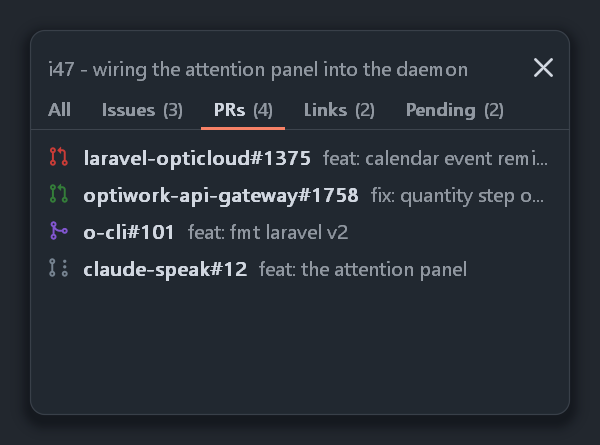
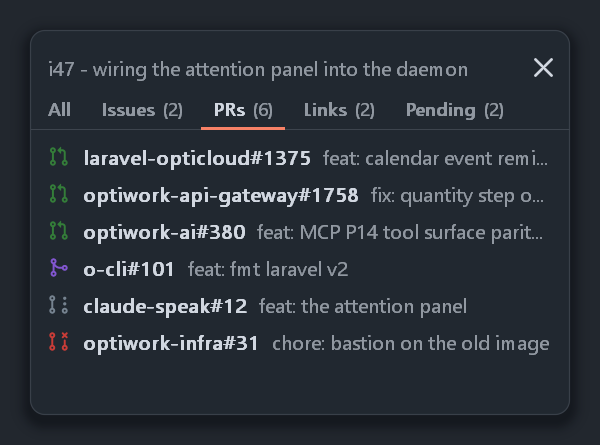
docs(panel): GitHub state colours, the Changes requested badge and label style
Icon table and popover prose describe state-only colours, the badge row
and review_decision; label pills documented as Primer's dark IssueLabel.
Changelog entries, the new checks-failing popover preview, and refreshed
preview PNGs.

diff --git a/docs/references/attention-panel.md b/docs/references/attention-panel.md
@@ -159,20 +159,23 @@ the one you are already looking at.
 
 Questions outrank every status in the collapsed pill: while any is open the pill
 reads `N pending` with the amber `question` glyph rather than `N items` and the
-worst badge. A red pill means a machine is unhappy about something; an amber one
-means a machine is waiting for *you*, and only the second will not resolve
-itself.
+worst item's icon. The amber is the one colour on the card that means a machine
+is waiting for *you* — every other icon reports a GitHub state, which will
+resolve itself.
 
 ## Icons and colours
 
 Each row is marked with **GitHub's own icon for its type**, tinted with GitHub's
 own colour for its state — two pieces of information in the space a status dot
-took, and the same glyph the row's page shows:
+took, and the same glyph, in the same colour, the row's page shows. The colour is
+the *state* only (open, draft, merged, closed), never the review or the checks:
+`approved`, `changes_requested` and `checks_failing` are all an open item, and
+all green. They stay in the data; the popover is where they are shown.
 
 | Row | Icon | Colour |
 |---|---|---|
-| issue, any live state | `issue-opened` | green `#347d39`, amber `#c69026` for `changes_requested`, red `#c93c37` for `checks_failing` |
-| pull request, any live state | `git-pull-request` | as above; `approved` stays plain green |
+| issue, any live state | `issue-opened` | green `#347d39` |
+| pull request, any live state (`open`, `approved`, `changes_requested`, `checks_failing`) | `git-pull-request` | green `#347d39` |
 | `draft` | `git-pull-request-draft` | grey `#768390` |
 | `merged` | `git-merge` | purple `#8256d0` |
 | closed issue | `issue-closed` | purple `#8256d0` — GitHub's "completed" |
@@ -183,9 +186,10 @@ took, and the same glyph the row's page shows:
 | a path, or any other numberless item | `file-directory` | grey `#768390` |
 | any other `kind`, with a number | `issue-opened` | by state, as above |
 
-`approved` is left plain green rather than given a tick overlay: at 14 px a
-second mark inside the glyph turns into grit, and a row's job is "which thing,
-roughly how is it doing" — the exact review state is one click away.
+This is GitHub's own split: its lists and hover cards colour a pull request by
+state, and a failing check or a requested change is a separate mark next to it.
+At 14 px there is no room for that second mark inside the glyph, so a row's job is
+"which thing, and is it still open" — the review state is one hover away.
 
 The icons are the 16×16 [Octicons](https://github.com/primer/octicons) (MIT),
 verbatim path data, rasterized in the binary: the path is parsed, its curves and
@@ -221,7 +225,7 @@ opens to the left of the first, aligned with the row that summoned it. Path rows
 have no popover — a directory has nothing else to say.
 
 <p align="center">
-  <img src="../panel-popover-pr.png" width="440" alt="a pull request popover: repo#N, Changes requested, the full title, author, labels, assignees, reviewers with verdicts and a checks line">
+  <img src="../panel-popover-pr.png" width="440" alt="a pull request popover: the repo and date, the full title with #N, a green Open pill with a yellow Changes requested badge, labels, assignees, reviewers with verdicts and a checks line">
   <img src="../panel-popover-issue.png" width="440" alt="an issue popover: repo#N, its state, the full title, author, labels and assignees">
   <img src="../panel-popover-question.png" width="440" alt="a question popover: the amber question mark, Pending question, the whole question text, and click to copy">
   <img src="../panel-popover-link.png" width="440" alt="a link popover: the chain icon, the word Link, and the whole URL over two lines">
@@ -232,11 +236,18 @@ GitHub's own order: a muted `owner/repo on Sep 16`; the **full title** in bold,
 wrapped to at most three lines, with a muted `#N` at the end of its last line —
 which is why the wrap is done by hand rather than by `DT_WORDBREAK`, since a
 single mask cannot say where its last line ends; the status as a *filled pill*
-carrying the type's octicon (green `Open`, purple `Merged`, red `Closed`, grey
-`Draft`); then, under a separator, the opening of the body, and for a pull
+carrying the type's octicon, in the icon's colour and with GitHub's word for the
+state (green `Open` for any live pull request or issue, grey `Draft`, purple
+`Merged`, red `Closed` for a pull request and purple `Closed` for an issue);
+beside it on the same row, the badges that qualify it — today only a yellow
+`Changes requested` (`#e3b341`, GitHub's dark attention colour, as tinted text
+on an 18% fill with a hairline border) on an open pull request whose status is
+`changes_requested` *or* whose `details.review_decision` is `CHANGES_REQUESTED`,
+since a PR with failing checks reports `checks_failing` and would otherwise
+hide its review; then, under a separator, the opening of the body, and for a pull
 request the `base ← head` pair as two pills. Under a second separator, the part
 that is about people rather than about the thing: the labels as pills in
-GitHub's own label colours; `Assignees`; for pull requests `Reviewers`, each
+GitHub's own dark-theme label style; `Assignees`; for pull requests `Reviewers`, each
 with the verdict beside them — a green check for `APPROVED`, a red `✕` for `CHANGES_REQUESTED`, a grey
 speech bubble for `COMMENTED`, a hollow circle for a review that has been
 requested and not yet given; and a one-line `Checks: 4 passing · 1 pending ·
@@ -325,7 +336,8 @@ has.
   "reviews":   [{"login": "…", "avatar": "…", "state": "APPROVED|CHANGES_REQUESTED|COMMENTED|PENDING",
                  "display": "Copilot", "icon": "copilot"}],
   "review_requests": [{"login": "…", "avatar": "…"}],
-  "checks":    {"total": 6, "failing": 1, "pending": 1}
+  "checks":    {"total": 6, "failing": 1, "pending": 1},
+  "review_decision": "CHANGES_REQUESTED"
 }
 ```
 
@@ -350,10 +362,14 @@ column). The panel does not pattern-match logins; the producer says what to show
 `reviews` is the latest review per reviewer; `review_requests` are the ones who
 have not reviewed yet, and they are merged into the `Reviewers` list as
 `PENDING` (a login in both keeps its review). `labels[].color` is GitHub's own
-six-digit hex, with or without a `#`, and the pill's text is picked black or
-white by the colour's luminance — a pill is unreadable the moment that guesses
-wrong. `checks.total` counts everything, so *passing* is
-`total - failing - pending`.
+six-digit hex, with or without a `#`, and a label is drawn the way GitHub's dark
+theme draws one (Primer's `IssueLabel`): the raw colour at 18% as the fill; the
+text the same hue, lightened in HSL by `0.6 - L` when the colour's perceived
+lightness `L = 0.2126 R + 0.7152 G + 0.0722 B` is under 0.6, so a dark label
+still reads on a dark card; and that text colour at 30% as a hairline border.
+`checks.total` counts everything, so *passing* is `total - failing - pending`.
+`review_decision` is `gh`'s `reviewDecision` (`APPROVED`, `CHANGES_REQUESTED`,
+`REVIEW_REQUIRED`), pull requests only, absent when GitHub has none.
 
 ## Collapse
 
@@ -686,6 +702,7 @@ enough to be cut and two items too many so the `+N more` row appears:
 | `<prefix>-popover-issue.png` | the same for an issue |
 | `<prefix>-popover-question.png` | a question: the whole text and `click to copy` |
 | `<prefix>-popover-link.png` | a link: the word `Link` and the whole URL |
+| `<prefix>-popover-pr-checks-failing.png` | the same pull request as `checks_failing`: still `Open`, still badged `Changes requested` via `review_decision` |
 
 The popovers come with two generated avatar PNGs beside them, so the previews
 show real decoded circles rather than the fallback disc. Every image on this page

diff --git a/CHANGELOG.md b/CHANGELOG.md
@@ -9,8 +9,24 @@ in `version.h`, and a `v*` tag ships whatever that header says.
 
 ## [Unreleased]
 
+### Changed
+
+- **Row icons and the popover's status pill use GitHub's state colours.** A
+  pull request that is neither merged nor closed is green `Open` whatever its
+  reviews or checks say — no more amber for `changes_requested` or red for
+  `checks_failing` — drafts stay grey, merged is purple, a closed pull request
+  red; issues are green `Open` and purple `Closed` as before. The statuses
+  themselves are unchanged in the data.
+- **Popover labels look like GitHub's dark-theme labels:** an 18% tint of the
+  label colour, text in the same hue lightened until it reads, and a hairline
+  border, instead of a solid fill with black or white text.
+
 ### Added
 
+- **A `Changes requested` badge on the pull request popover,** in yellow beside
+  the `Open` pill. It follows the status or the new `details.review_decision`
+  the enricher copies from `gh`'s `reviewDecision`, so a PR whose failing checks
+  outrank its review still shows it.
 - **The hover popover is GitHub's hover card now.** Same order, same marks: a
   muted `owner/repo on Sep 16` header, the full title in bold with its `#N`
   trailing it, the state as a filled pill carrying its own octicon, the opening

diff --git a/docs/references/claude-code-integration.md b/docs/references/claude-code-integration.md
@@ -276,6 +276,7 @@ there is exactly one state directory per user even with several
 | `reviews` | PRs only: the **latest** review per reviewer, the PR author's own excluded, `PENDING` drafts dropped, `DISMISSED` folded into `COMMENTED`. Sorted `CHANGES_REQUESTED` → `APPROVED` → `COMMENTED`, then most recent first, so the cap of 10 (`reviews_more`) never drops a human verdict for a bot comment |
 | `review_requests` | PRs only: reviewers who have not answered yet — this is what `PENDING` means on the popover. A requested *team* has no login, so it appears as `{login: "<team name>", avatar: null, team: true}` |
 | `checks` | PRs only: `{total, failing, pending}` counted off `statusCheckRollup` |
+| `review_decision` | PRs only: `gh`'s `reviewDecision`, upper-cased (`APPROVED`, `CHANGES_REQUESTED`, `REVIEW_REQUIRED`), absent when empty. The row `status` ranks failing checks above it, so this is what lets the popover still badge `Changes requested` |
 | `updated_at` | GitHub's `updatedAt`, normalised to `…Z` |
 | `fetched_at` | when the popover content last *changed*. A refresh that finds nothing new does not rewrite the file (and so does not re-POST the card once a minute), which is exactly why this is not simply the last `gh` call |
 
